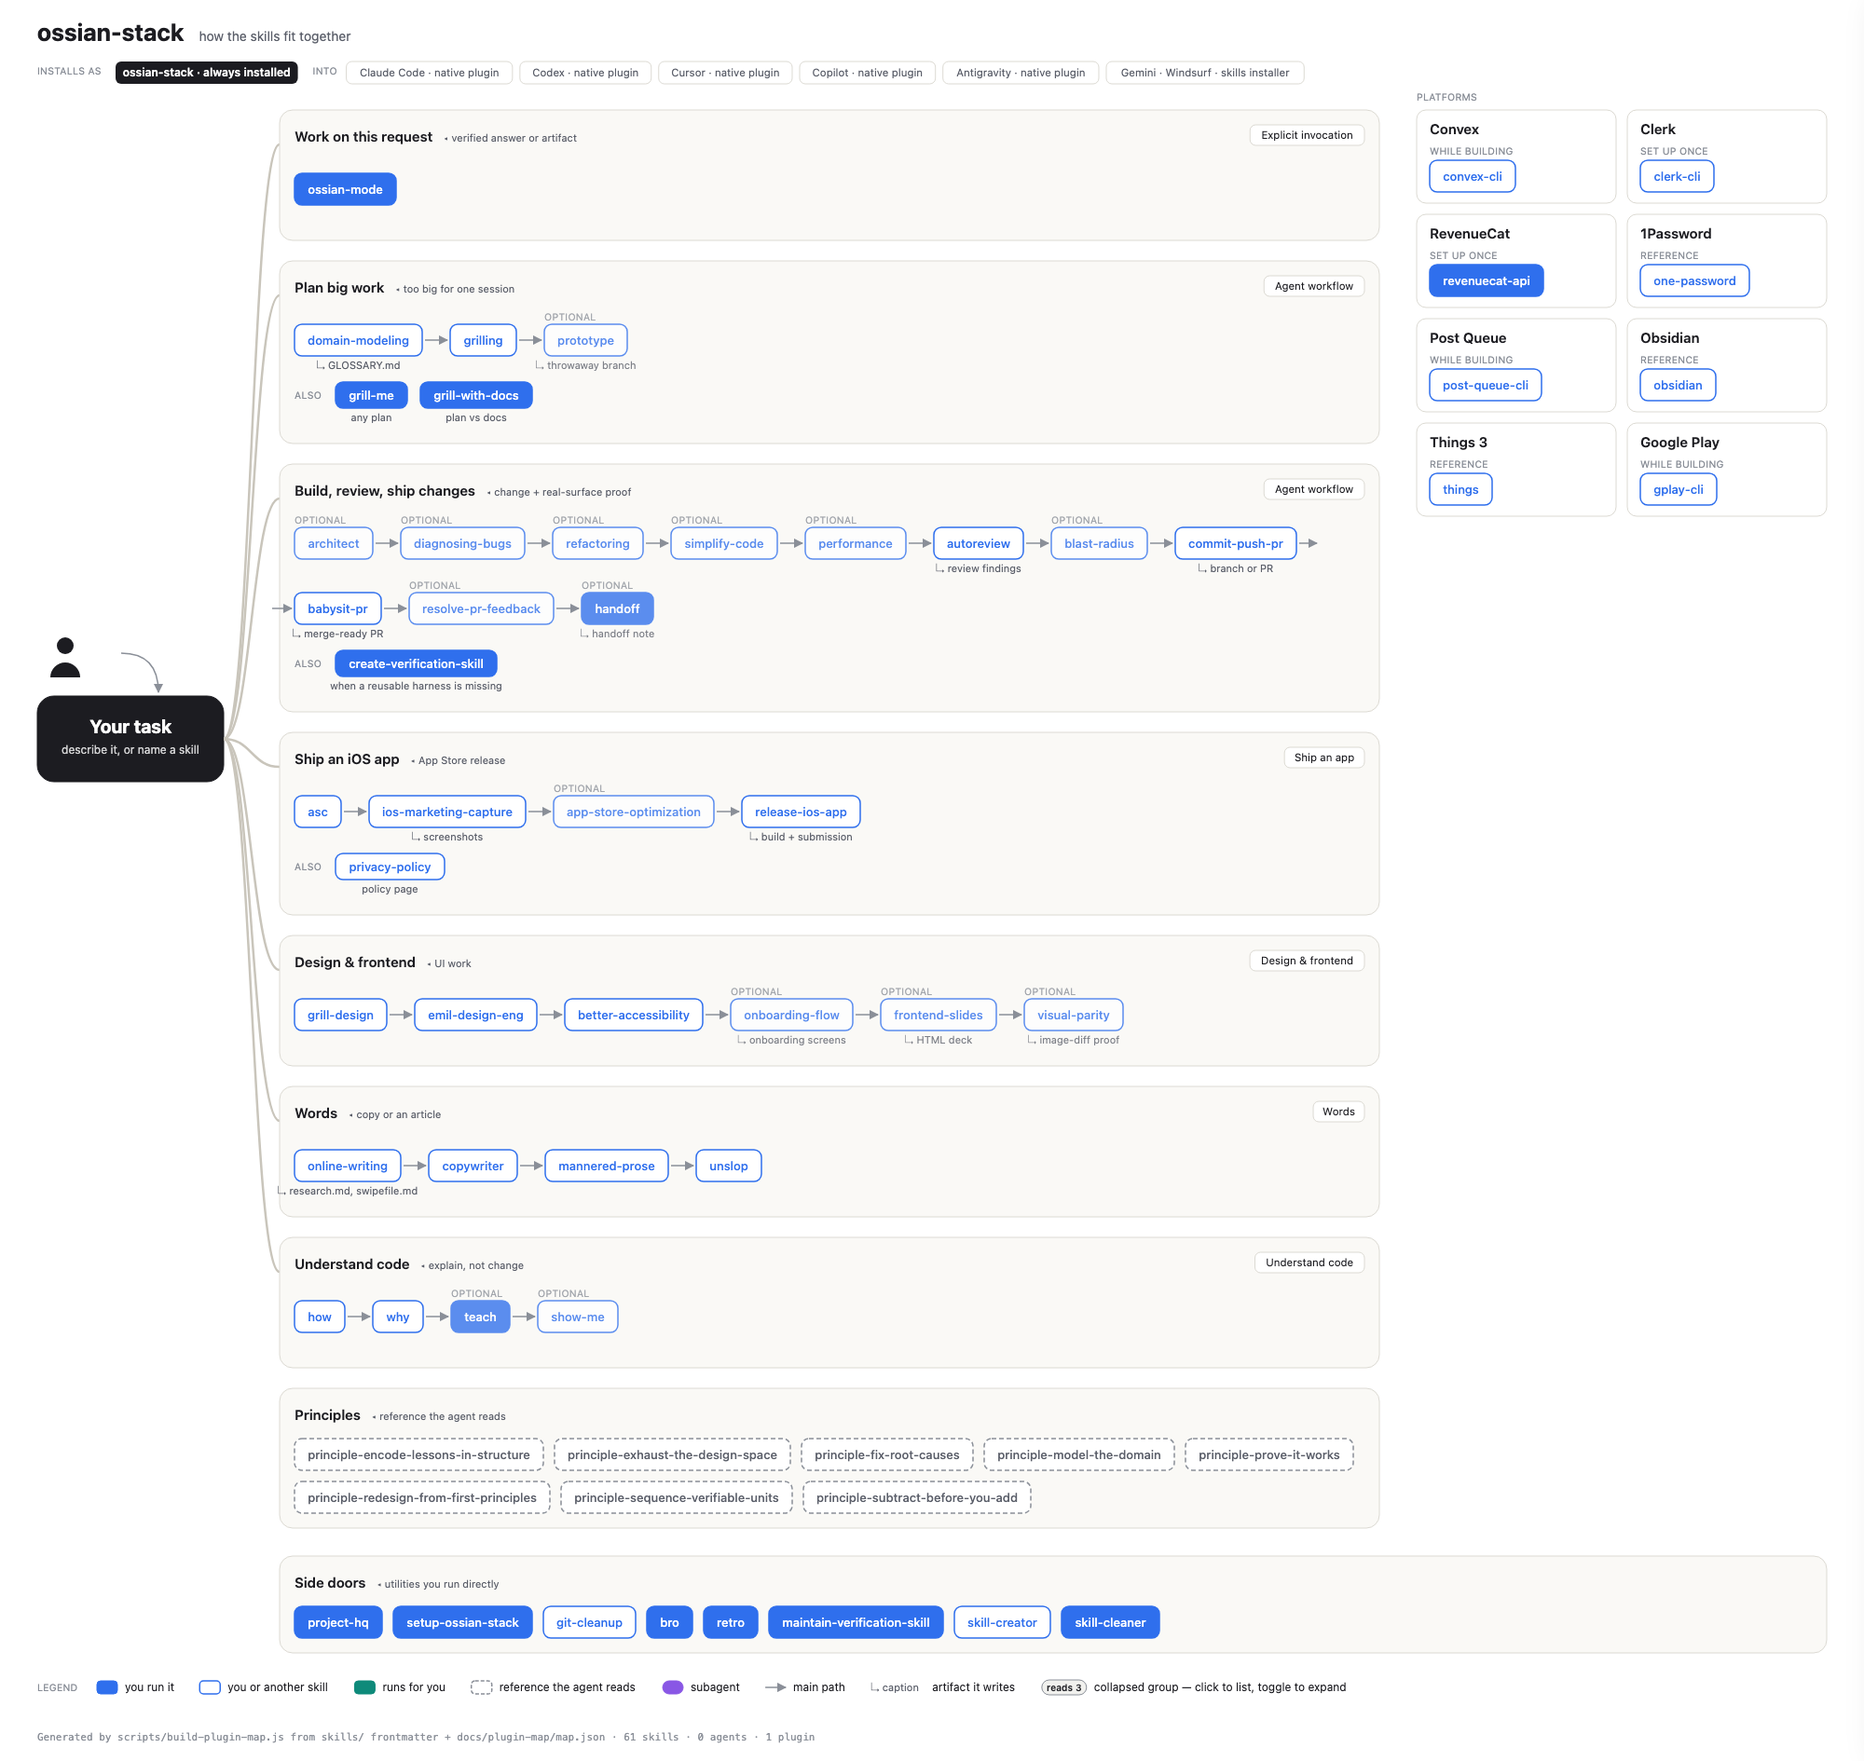
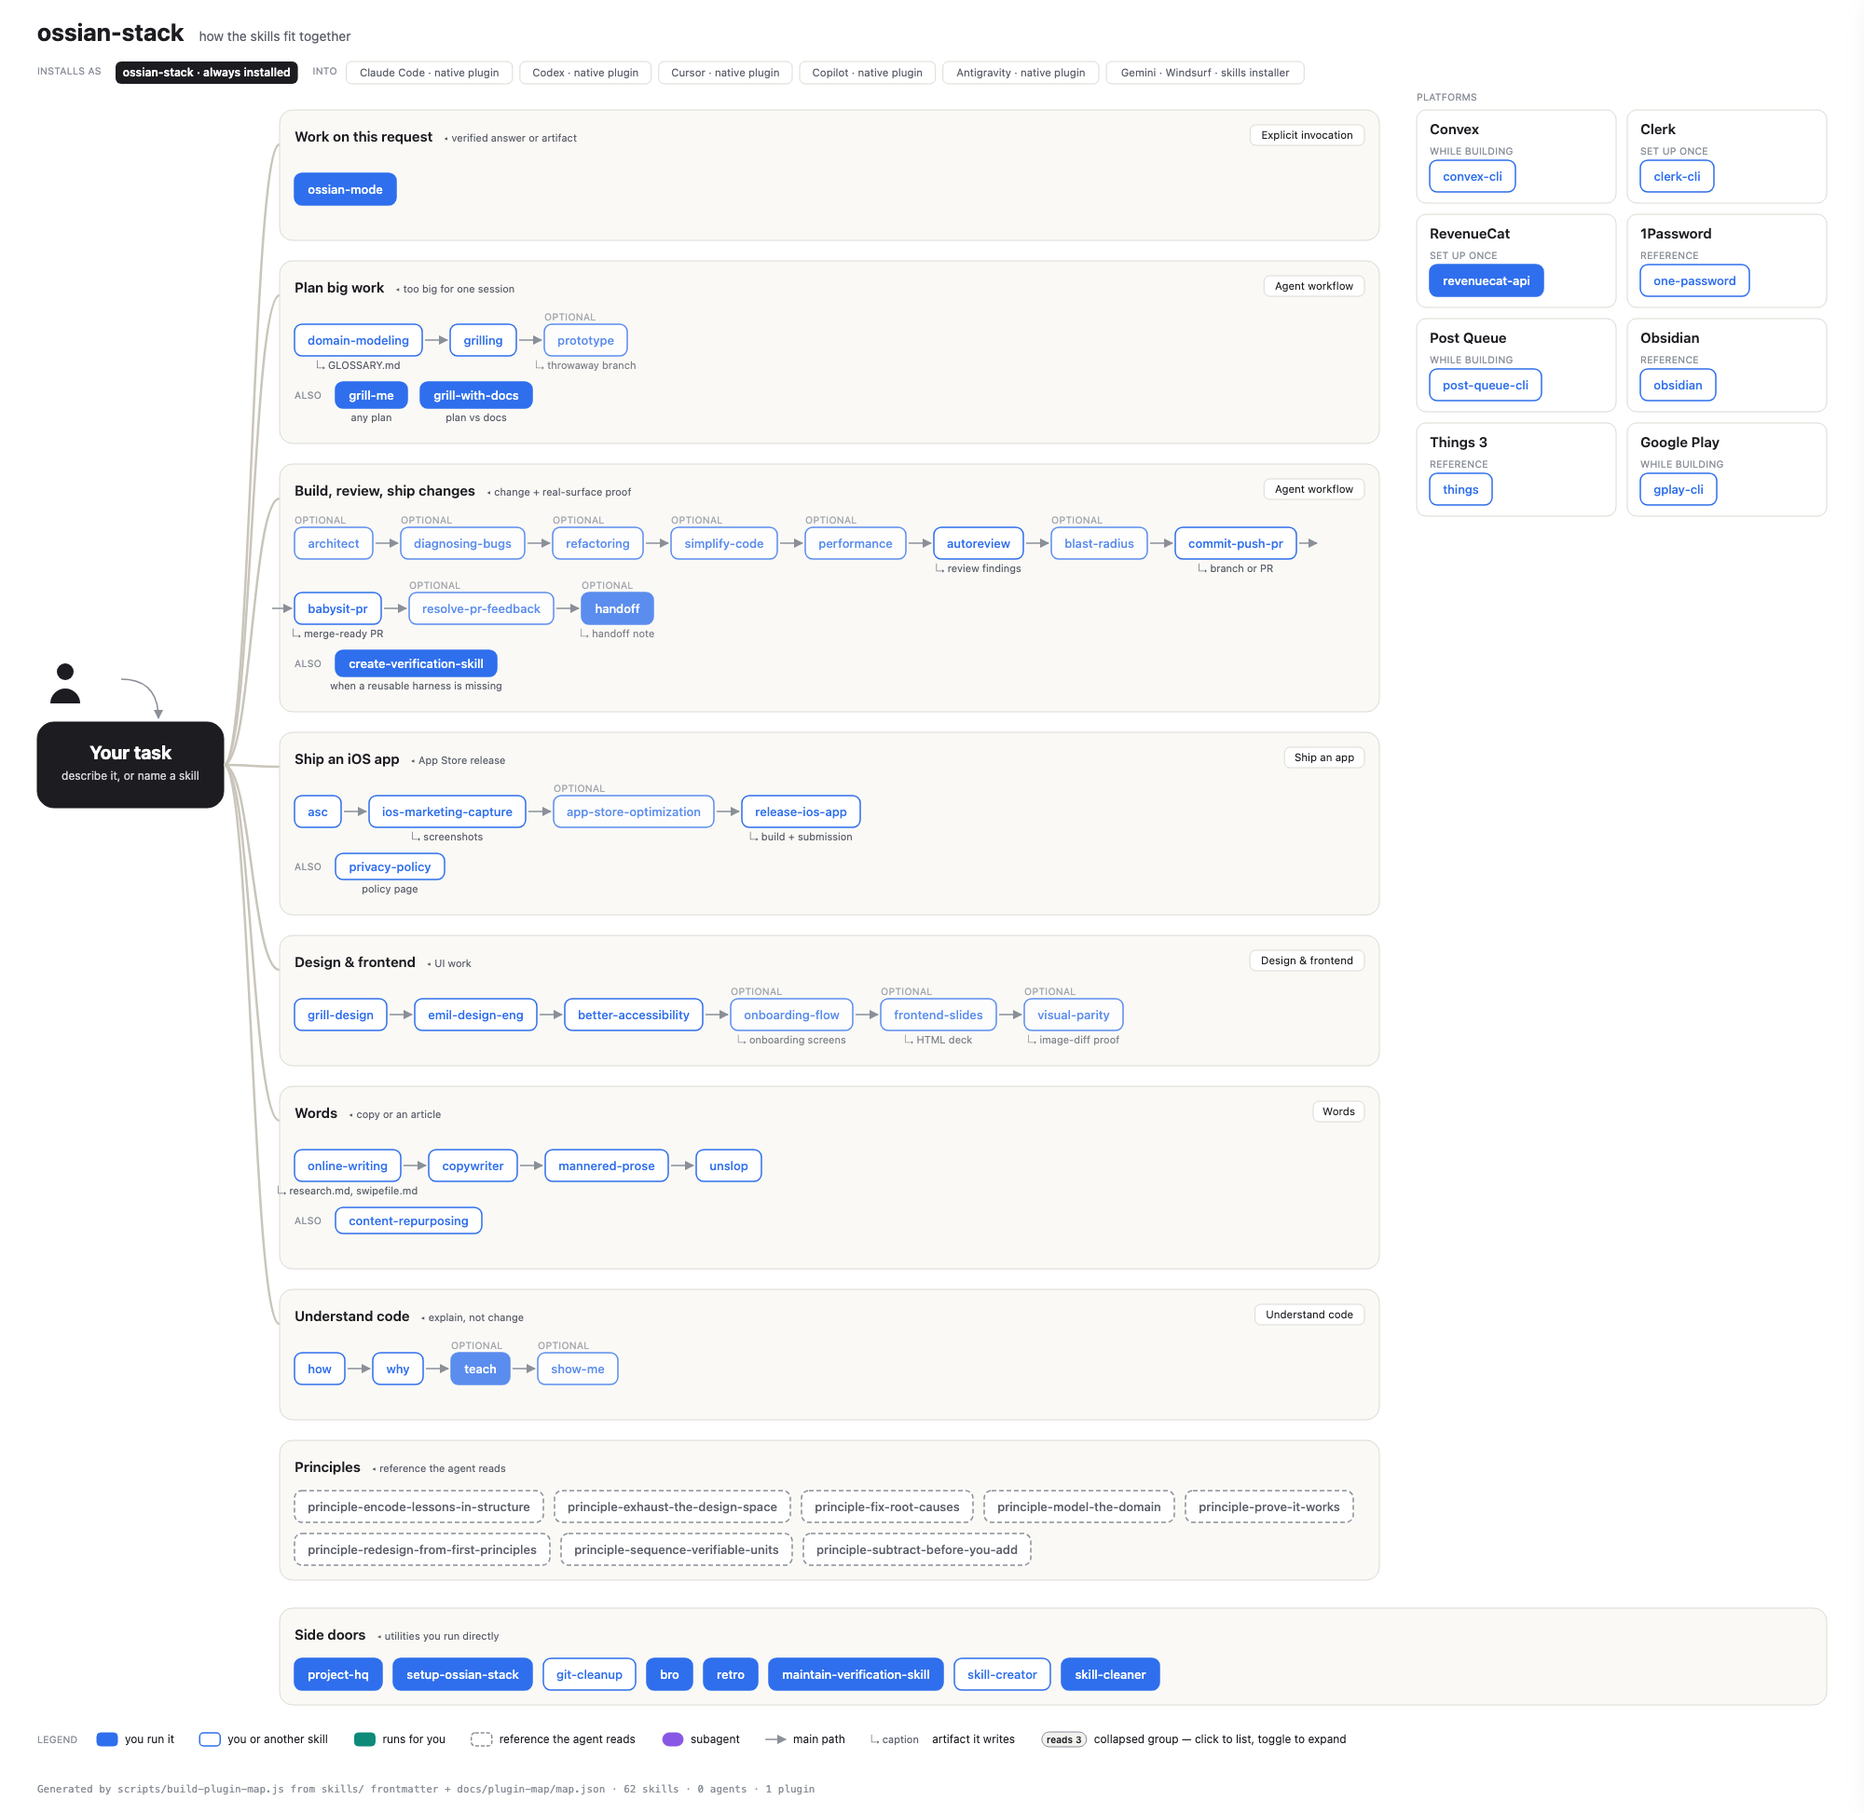
feat(content-repurposing): add editorial channel drafts

diff --git a/docs/plugin-map/index.html b/docs/plugin-map/index.html
@@ -338,7 +338,12 @@
       "id": "unslop"
      }
     ],
-    "extras": []
+    "extras": [
+     {
+      "id": "content-repurposing",
+      "writes": "X, TikTok, YouTube drafts"
+     }
+    ]
    },
    {
     "id": "understand",
@@ -690,6 +695,27 @@
    ],
    "routedBy": []
   },
+  "content-repurposing": {
+   "id": "content-repurposing",
+   "type": "skill",
+   "plugin": "ossian-stack",
+   "display": "Content Repurposing",
+   "description": "Turn an existing article, essay, newsletter, draft, or substantial note into native X and TikTok posts or a YouTube idea and script draft in the writer's voice. Use for editorial repurposing, not original long-form drafting or app ads.",
+   "role": "both",
+   "humanOnly": false,
+   "argumentHint": null,
+   "origin": "local",
+   "repo": null,
+   "calls": [
+    "obsidian",
+    "online-writing",
+    "copywriter",
+    "unslop"
+   ],
+   "routes": [],
+   "calledBy": [],
+   "routedBy": []
+  },
   "convex-cli": {
    "id": "convex-cli",
    "type": "skill",
@@ -724,6 +750,7 @@
    ],
    "routes": [],
    "calledBy": [
+    "content-repurposing",
     "onboarding-flow"
    ],
    "routedBy": []
@@ -1072,7 +1099,9 @@
    "repo": null,
    "calls": [],
    "routes": [],
-   "calledBy": [],
+   "calledBy": [
+    "content-repurposing"
+   ],
    "routedBy": []
   },
   "onboarding-flow": {
@@ -1129,7 +1158,9 @@
     "mannered-prose",
     "unslop"
    ],
-   "calledBy": [],
+   "calledBy": [
+    "content-repurposing"
+   ],
    "routedBy": []
   },
   "ossian-mode": {
@@ -1703,6 +1734,7 @@
    "routes": [],
    "calledBy": [
     "commit-push-pr",
+    "content-repurposing",
     "copywriter"
    ],
    "routedBy": [
@@ -1759,7 +1791,7 @@
   }
  },
  "counts": {
-  "skills": 61,
+  "skills": 62,
   "agents": 0,
   "plugins": 1
  }

diff --git a/skills/content-repurposing/SKILL.md b/skills/content-repurposing/SKILL.md
@@ -1,0 +1,31 @@
+---
+name: content-repurposing
+description: Turn an existing article, essay, newsletter, draft, or substantial note into native X and TikTok posts or a YouTube idea and script draft in the writer's voice. Use for editorial repurposing, not original long-form drafting or app ads.
+---
+
+# Content Repurposing
+
+Re-cut an existing piece for the requested channels. Preserve its actual claim, evidence, and writer's point of view. Each output must make sense to someone who has never seen the source. Do not reduce the job to summaries, excerpts, or the same text with different line breaks.
+
+## Find the source and voice
+
+1. Start with the supplied text or named artifact. If Ossian refers to “my article,” “my writing,” or an Obsidian note without a path, use `obsidian` to resolve the live vault and search its current writing and notes locations for the specific piece. Follow the vault's current instructions and writing workflow. For a published ossianhempel.com article, follow the vault record to the canonical site source rather than treating its record as the prose.
+2. For work under Ossian's own name, read the live vault root `VOICE.md` and `STYLE.md`, and any relevant curated `examples/`. `VOICE.md` governs sound; `STYLE.md` governs the claim, evidence, and reader payoff. These guides are provisional, so honor explicit instructions for this piece and avoid copying example phrasing. Use a project-specific voice guide if the request belongs to another writer or brand. Do not apply Ossian's personal voice to app marketing.
+3. Extract the source's central claim, the strongest concrete example or demonstration, its real limits, and the audience's useful takeaway. Keep a short source map for facts, quotations, and first-person experience. A private note or imported highlight is research, not proof that Ossian personally did something. Do not invent runs, results, metrics, testimonials, scenes, or footage.
+4. Follow the source language or the user's requested language. If making Swedish and English versions, rewrite each for its reader rather than translating line by line.
+
+If the source is thin or the argument changes meaning when shortened, ask for the missing fact or mark a specific placeholder. Still draft the supported parts. Ask before choosing between genuinely different theses in the writer's name.
+
+## Choose the work requested
+
+- For X or TikTok, read [short-form.md](references/short-form.md). Produce only the requested channel when the user names one; do both when asked for both.
+- For a YouTube idea or script, read [youtube.md](references/youtube.md). If asked for an idea and manuscript, supply a selected concept and a complete first script draft, unless choosing the concept would require an unresolved thesis decision.
+- When all three are requested, make distinct cuts from the same source. The X post should carry one portable point, the TikTok should show a moment or demonstration, and the YouTube draft should develop the question the source can sustain. They need not repeat the same hook.
+
+Keep this skill focused on transformation. If the user wants to originate or repair the underlying essay, follow the active writing home's drafting workflow first. Ossian's vault maps its writing stages to the available Compound Writing skills; use only the stage needed. For a requested persuasion audit or topic research, use `online-writing`, which diagnoses and does not draft. For an app ad or conversion piece, use `copywriter` and its video guidance. Use `unslop` or the writing home's voice review for a targeted final pass when the draft sounds generic; give a cold reader the cut alone when it may depend on missing context. Do not run every skill by default.
+
+## Finish and hand off
+
+- Deliver copy and script that can be reviewed directly, with visual or performance cues only where they help production. Name the source and voice guides used. Separate facts present in the source from proposed framing or placeholders.
+- Check each output for a first-line or first-seconds payoff, standalone value, source fidelity, platform fit, and the writer's actual sentence style. Cut generic advice, repeated claims, engagement bait, and automatic sales calls.
+- Do not publish, schedule, upload, or change a vault piece's stage as part of drafting. If the user requests saved drafts, follow the destination's existing conventions, read before writing, and keep derivatives linked to their source.

diff --git a/README.md b/README.md
@@ -2,7 +2,7 @@
 
 Ossian's personal agent skills, packaged as one plugin for Claude Code, Codex, and Cursor.
 
-![skills](https://img.shields.io/badge/skills-61-blue)
+![skills](https://img.shields.io/badge/skills-62-blue)
 ![license](https://img.shields.io/badge/license-MIT-green)
 ![runtimes](https://img.shields.io/badge/runtimes-Claude%20Code%20%C2%B7%20Codex%20%C2%B7%20Cursor-8957e5)
 
@@ -151,13 +151,13 @@ refreshed instead of quietly rotting.
 
 ## Skills at a glance
 
-61 skills, grouped by what they are for.
+62 skills, grouped by what they are for.
 
 | Group | Covers | Skills |
 | --- | --- | --- |
 | **Ship an app** | App Store Connect, Google Play, releases, store metadata, legal | `app-store-optimization` · `asc` · `gplay-cli` · `ios-marketing-capture` · `release-ios-app` · `privacy-policy` |
 | **Design & frontend** | Accessibility, UI craft and motion, decks, onboarding, throwaway prototypes | `better-accessibility` · `emil-design-eng` · `grill-design` · `frontend-slides` · `onboarding-flow` · `prototype` · `visual-parity` |
-| **Words** | Marketing copy, editorial audit and research, plain-statement and slop passes | `copywriter` · `online-writing` · `mannered-prose` · `unslop` |
+| **Words** | Marketing copy, editorial audit and research, content repurposing, plain-statement and slop passes | `copywriter` · `online-writing` · `content-repurposing` · `mannered-prose` · `unslop` |
 | **Backend & infra** | Convex, Clerk, RevenueCat, secrets, Post Queue, infrastructure operations | `convex-cli` · `clerk-cli` · `revenuecat-api` · `one-password` · `post-queue-cli` |
 | **Agent workflow** | Review, routing, chat orchestration, large-effort planning, simplification, refactoring, debugging, verification, session retrospectives, direct trunk delivery or PR creation with merge-ready follow-through, targeted post-merge cleanup, explicit repository-wide git hygiene, install and skill maintenance | `architect` · `autoreview` · `babysit-pr` · `blast-radius` · `commit-push-pr` · `retro` · `setup-ossian-stack` · `diagnosing-bugs` · `domain-modeling` · `performance` · `create-verification-skill` · `maintain-verification-skill` · `git-cleanup` · `grill-me` · `grill-with-docs` · `grilling` · `handoff` · `project-hq` · `ossian-mode` · `refactoring` · `resolve-pr-feedback` · `simplify-code` · `bro` · `skill-creator` · `skill-cleaner` |
 | **Principles** | Short, explicitly-invoked rules for how to work — verification, design exploration, debugging posture, domain modeling | `principle-encode-lessons-in-structure` · `principle-exhaust-the-design-space` · `principle-fix-root-causes` · `principle-model-the-domain` · `principle-prove-it-works` · `principle-redesign-from-first-principles` · `principle-sequence-verifiable-units` · `principle-subtract-before-you-add` |

diff --git a/skills/content-repurposing/references/short-form.md b/skills/content-repurposing/references/short-form.md
@@ -1,0 +1,21 @@
+# X and TikTok
+
+Read this when the requested derivative is an X post, X thread, TikTok video, or TikTok slideshow. Treat a personal editorial post differently from a product ad. Keep the source's point of view and give a new viewer a complete payoff within this post.
+
+## X
+
+- Find the smallest defensible claim or distinction that stands alone. Open with the claim, a concrete situation, or an earned curiosity gap. Do not introduce the article or say “I wrote about…” unless the relationship to the source is the point.
+- Prefer one post for one idea. Use a thread only when the evidence, sequence, or example needs multiple posts; every post should advance the thought. Do not create a thread to fit the whole essay. Check the current platform limit before claiming a draft is ready to paste if length matters.
+- Bring one real detail from the source: an actual command, failure, number, choice, or example. Link to the source once only when the user wants a traffic path and the link exists. No “thread 🧵,” “agree?,” or empty engagement question.
+- Output the publishable text first. Add a brief source/evidence note only if a claim needs checking.
+
+## TikTok
+
+- For Ossian's own editorial writing, default to a talking-head or simple demonstration script when the user has not chosen a format. Choose a slideshow only when the material is genuinely visual or sequential, or the user asks for one. If a format preference is established in the current request, follow it.
+- Open on a recognizable situation, visible result, or strong claim in the first seconds. Do not spend the opening naming the topic, greeting viewers, or referring to the article.
+- Give one thought per clip. Build from **opening → concrete example or demonstration → explanation → useful ending**. The ending can state the rule, decision, or limit. Avoid a recap and a forced CTA.
+- For video, provide the spoken words and a compact shot/on-screen cue list. Separate a proposed shot from footage known to exist. A screen recording, command output, or before/after must be real before presenting it as captured evidence. Read the spoken text aloud or estimate its duration honestly; tighten lines that only work on paper.
+- For a slideshow, provide slide-by-slide on-screen copy and visual purpose, plus a caption only if it adds context. Each slide must move the idea forward. Do not just paste paragraphs onto cards.
+- Do not import app-ad patterns or unverified platform performance rules into a personal essay cut. Apply the current `VOICE.md` to spoken language too; contractions and plain verbs matter more than formal narration.
+
+If both channels are requested, make the X text and TikTok script independently useful. A TikTok transcript pasted into X is not a second cut.

diff --git a/skills/content-repurposing/references/youtube.md b/skills/content-repurposing/references/youtube.md
@@ -1,0 +1,19 @@
+# YouTube idea and manuscript draft
+
+Read this when an existing piece should become a YouTube concept, outline, or spoken script.
+
+## Select the idea
+
+Find the question, demonstration, or tension in the source that can sustain a video. The video may develop one part of the writing, add a real demonstration, or test its claim. It does not need to recite the essay. If several strong concepts exist, show two or three with a one-line viewer payoff and recommend one. When the request includes a manuscript draft, write the strongest supported concept in the same turn. Ask only when the concepts imply different positions that Ossian must choose between.
+
+Package the selected concept with a working title, the audience's question, the answer or payoff, and the source evidence available. A thumbnail or visual premise is useful when it can be shown truthfully; do not make it a mandatory decoration.
+
+## Draft the script
+
+- Write words meant to be spoken. Start at the concrete problem, result, or point of tension. Avoid channel greetings, an essay abstract, and promises to cover topics later.
+- Give the viewer the claim early, then earn it through a specific experience, example, live walkthrough, or visible comparison. Each section should change what the viewer understands or can do. A video needs enough substance to justify its length; do not stretch one paragraph into a long script.
+- Mark demonstrations, visuals, screen recordings, and B-roll as production cues separate from spoken lines. Say whether an asset exists, needs capture, or is only an idea when that distinction matters.
+- Preserve the source's uncertainty. Use `[verify: …]`, `[show: …]`, or `[Ossian to add: …]` for missing evidence or first-person experience. Never turn an inferred scene into a memory in his voice.
+- End with the portable decision or lesson and, where relevant, the source's limit. Include a single link or next step only when requested or naturally warranted. No summary monologue or slogan.
+
+Deliver a **first draft**, not a publication-ready claim. For a reviewable draft, include the working title and concept, the full spoken script with concise production cues, and a short list of unresolved factual or filming needs. Estimate run time from the actual spoken text if useful, and label it an estimate.
